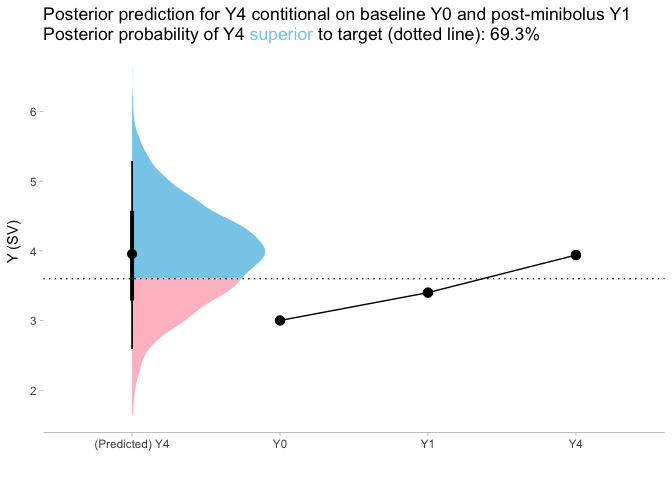
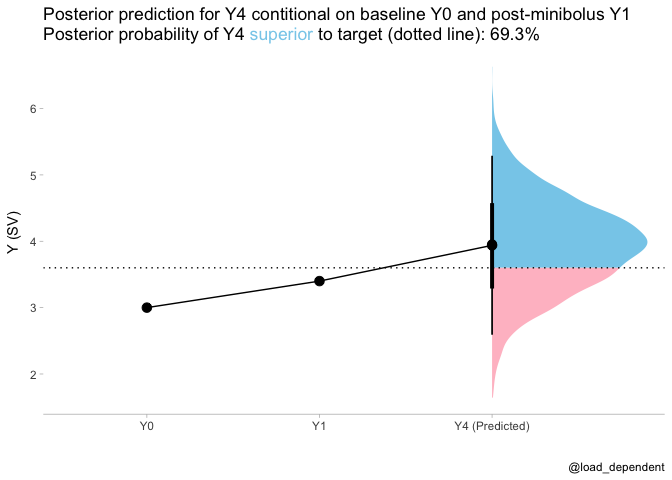
fixed error in x-axis

diff --git a/README.md b/README.md
@@ -101,13 +101,13 @@ post_pred_prob <- prediction %>%
 Data for points and lines
 
 ``` r
-plot_data = tibble(time=ordered(c("Y0","Y1","Y4")),y=c(Y0_new,Y1_new,mean(prediction$.prediction)),group="group")
+plot_data = tibble(time=ordered(c("Y0","Y1","Y4 (Predicted)")),y=c(Y0_new,Y1_new,mean(prediction$.prediction)),group="group")
 ```
 
 ``` r
 plot_data %>%
   ggplot(aes(x = time, y = y,group="group")) +
-  stat_halfeye(aes(y = .prediction, x = "(Predicted) Y4", fill = after_stat(ifelse(y > Y4_target, "over", "under"))), data = prediction) +
+  stat_halfeye(aes(y = .prediction, x = "Y4 (Predicted)", fill = after_stat(ifelse(y > Y4_target, "over", "under"))), data = prediction) +
   geom_point(size=3)+
   geom_path()+
   geom_hline(yintercept = Y4_target,linetype="dotted")+
@@ -118,7 +118,7 @@ plot_data %>%
   labs(title = paste0(
     "Posterior prediction for Y4 contitional on baseline Y0 and post-minibolus Y1 <br>",
     "Posterior probability of Y4 <span style='color:#87ceeb;'>superior</span> to target (dotted line): ", scales::percent(post_pred_prob, accuracy = .1)
-  )) +
+  ),caption = "@load_dependent") +
   theme(
     legend.position = "none", axis.line.y = NULL,
     plot.title = element_markdown(lineheight = 1.1),
